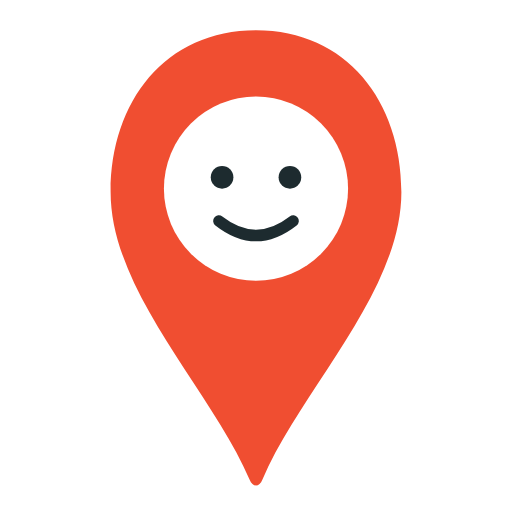
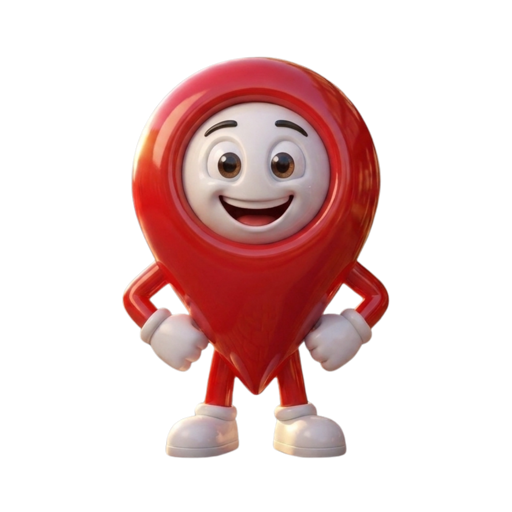
Use finished mascot artwork

diff --git a/index.html b/index.html
@@ -7,7 +7,7 @@
 <meta name="description" content="Done-for-you Google Maps marketing. We manage your Google Business Profile so more locals find you, click through, and call. Get your free visibility report in 24 hours.">
 <meta name="robots" content="index, follow, max-image-preview:large, max-snippet:-1, max-video-preview:-1">
 <link rel="canonical" href="https://www.boostyourmaps.com/">
-<link rel="icon" type="image/svg+xml" href="/assets/favicon.svg">
+<link rel="icon" type="image/png" href="/assets/icon-512.png">
 <meta property="og:type" content="website">
 <meta property="og:title" content="Google Maps Marketing Services | Boost Your Maps">
 <meta property="og:description" content="Done-for-you Google Maps marketing. We manage your Google Business Profile so more locals find you, click through, and call. Get your free visibility report in 24 hours.">
@@ -21,18 +21,13 @@
 <link href="https://fonts.googleapis.com/css2?family=Gabarito:wght@500;600;700;800&display=swap" rel="stylesheet">
 <link href="https://fonts.googleapis.com/css2?family=Hanken+Grotesk:wght@400;500;600;700&display=swap" rel="stylesheet">
 <link rel="stylesheet" href="/assets/styles.css">
-<script type="application/ld+json">{"@context": "https://schema.org", "@graph": [{"@type": "Organization", "@id": "https://www.boostyourmaps.com/#organization", "name": "Boost Your Maps", "legalName": "Impact Leads LLC", "url": "https://www.boostyourmaps.com/", "logo": "https://www.boostyourmaps.com/assets/icon-512.png", "email": "team@boostyourmaps.com", "address": {"@type": "PostalAddress", "streetAddress": "1021 E Lincolnway, Suite #5789", "addressLocality": "Cheyenne", "addressRegion": "WY", "postalCode": "82001", "addressCountry": "US"}}, {"@type": "WebSite", "@id": "https://www.boostyourmaps.com/#website", "url": "https://www.boostyourmaps.com/", "name": "Boost Your Maps", "publisher": {"@id": "https://www.boostyourmaps.com/#organization"}}, {"@type": "ProfessionalService", "@id": "https://www.boostyourmaps.com/#service", "name": "Boost Your Maps", "url": "https://www.boostyourmaps.com/", "description": "Done-for-you Google Business Profile management that gets local businesses more profile views, website visits, and calls from Google Maps.", "parentOrganization": {"@id": "https://www.boostyourmaps.com/#organization"}, "areaServed": ["United States", "Canada"], "priceRange": "$450-$1,750", "makesOffer": [{"@type": "Offer", "name": "Ongoing Google Business Profile management", "price": "450", "priceCurrency": "USD", "description": "Full profile rebuild plus monthly citations, posts, photos, rank tracking, and a plain-English report. Month to month."}, {"@type": "Offer", "name": "One-time Google Business Profile rebuild", "price": "1750", "priceCurrency": "USD", "description": "Complete one-time profile rebuild and optimization with 250 local citations and 20 posts."}]}, {"@type": "FAQPage", "mainEntity": [{"@type": "Question", "name": "I've paid for SEO before and saw nothing. How is this different?", "acceptedAnswer": {"@type": "Answer", "text": "We don't chase rankings across the whole web. We work one thing: where you show up on the map when someone nearby searches. It's a smaller, clearer job, and you see the numbers every month."}}, {"@type": "Question", "name": "How fast will I see results?", "acceptedAnswer": {"@type": "Answer", "text": "Most profiles start moving inside 60 to 90 days. If you need customers next week, Maps isn't the fix, and we'll tell you that before you pay us anything."}}, {"@type": "Question", "name": "Can you guarantee I'll be number one?", "acceptedAnswer": {"@type": "Answer", "text": "No. Anyone who guarantees a ranking isn't being straight with you, because Google decides that. We handle the work that earns visibility and show you the calls and clicks it brings."}}, {"@type": "Question", "name": "How much work is it for me?", "acceptedAnswer": {"@type": "Answer", "text": "Almost none. You add us as a manager on your profile and we run it. It stays your profile, in your name, and you can remove us in two clicks."}}, {"@type": "Question", "name": "What happens if I cancel?", "acceptedAnswer": {"@type": "Answer", "text": "You stop paying and keep everything. The profile, the citations, the posts, the photos: all of it stays with you."}}]}]}</script>
+<script type="application/ld+json">{"@context": "https://schema.org", "@graph": [{"@type": "Organization", "@id": "https://www.boostyourmaps.com/#organization", "name": "Boost Your Maps", "legalName": "Impact Leads LLC", "url": "https://www.boostyourmaps.com/", "logo": "https://www.boostyourmaps.com/assets/mascot.png", "email": "team@boostyourmaps.com", "address": {"@type": "PostalAddress", "streetAddress": "1021 E Lincolnway, Suite #5789", "addressLocality": "Cheyenne", "addressRegion": "WY", "postalCode": "82001", "addressCountry": "US"}}, {"@type": "WebSite", "@id": "https://www.boostyourmaps.com/#website", "url": "https://www.boostyourmaps.com/", "name": "Boost Your Maps", "publisher": {"@id": "https://www.boostyourmaps.com/#organization"}}, {"@type": "ProfessionalService", "@id": "https://www.boostyourmaps.com/#service", "name": "Boost Your Maps", "url": "https://www.boostyourmaps.com/", "description": "Done-for-you Google Business Profile management that gets local businesses more profile views, website visits, and calls from Google Maps.", "parentOrganization": {"@id": "https://www.boostyourmaps.com/#organization"}, "areaServed": ["United States", "Canada"], "priceRange": "$450-$1,750", "makesOffer": [{"@type": "Offer", "name": "Ongoing Google Business Profile management", "price": "450", "priceCurrency": "USD", "description": "Full profile rebuild plus monthly citations, posts, photos, rank tracking, and a plain-English report. Month to month."}, {"@type": "Offer", "name": "One-time Google Business Profile rebuild", "price": "1750", "priceCurrency": "USD", "description": "Complete one-time profile rebuild and optimization with 250 local citations and 20 posts."}]}, {"@type": "FAQPage", "mainEntity": [{"@type": "Question", "name": "I've paid for SEO before and saw nothing. How is this different?", "acceptedAnswer": {"@type": "Answer", "text": "We don't chase rankings across the whole web. We work one thing: where you show up on the map when someone nearby searches. It's a smaller, clearer job, and you see the numbers every month."}}, {"@type": "Question", "name": "How fast will I see results?", "acceptedAnswer": {"@type": "Answer", "text": "Most profiles start moving inside 60 to 90 days. If you need customers next week, Maps isn't the fix, and we'll tell you that before you pay us anything."}}, {"@type": "Question", "name": "Can you guarantee I'll be number one?", "acceptedAnswer": {"@type": "Answer", "text": "No. Anyone who guarantees a ranking isn't being straight with you, because Google decides that. We handle the work that earns visibility and show you the calls and clicks it brings."}}, {"@type": "Question", "name": "How much work is it for me?", "acceptedAnswer": {"@type": "Answer", "text": "Almost none. You add us as a manager on your profile and we run it. It stays your profile, in your name, and you can remove us in two clicks."}}, {"@type": "Question", "name": "What happens if I cancel?", "acceptedAnswer": {"@type": "Answer", "text": "You stop paying and keep everything. The profile, the citations, the posts, the photos: all of it stays with you."}}]}]}</script>
 </head>
 <body>
-<!-- ===== simple flat mascot ===== -->
+<!-- ===== brand mascot asset ===== -->
 <svg width="0" height="0" style="position:absolute" aria-hidden="true">
   <symbol id="mascot" viewBox="0 0 260 350">
-    <ellipse cx="130" cy="332" rx="58" ry="9" fill="#1C2A2E" opacity=".08"/>
-    <path d="M130 30 C74 30 40 74 40 130 C40 192 102 252 126 318 C128 323 132 323 134 318 C158 252 220 192 220 130 C220 74 186 30 130 30 Z" fill="currentColor"/>
-    <circle cx="130" cy="128" r="57" fill="var(--mascot-face,#FFFFFF)"/>
-    <circle cx="109" cy="121" r="7" fill="var(--mascot-ink,#1D2B2F)"/>
-    <circle cx="151" cy="121" r="7" fill="var(--mascot-ink,#1D2B2F)"/>
-    <path d="M107 148 Q130 166 153 148" stroke="var(--mascot-ink,#1D2B2F)" stroke-width="7" stroke-linecap="round" fill="none"/>
+    <image href="/assets/mascot.png" width="260" height="350" preserveAspectRatio="xMidYMid meet"/>
   </symbol>
 </svg>
 <nav>

diff --git a/services.html b/services.html
@@ -7,7 +7,7 @@
 <meta name="description" content="Google Business Profile optimization, review management, local citations, and plain-English performance tracking. Everything needed to rank in the Google Maps 3-Pack.">
 <meta name="robots" content="index, follow, max-image-preview:large, max-snippet:-1, max-video-preview:-1">
 <link rel="canonical" href="https://www.boostyourmaps.com/services">
-<link rel="icon" type="image/svg+xml" href="/assets/favicon.svg">
+<link rel="icon" type="image/png" href="/assets/icon-512.png">
 <meta property="og:type" content="website">
 <meta property="og:title" content="Google Maps Marketing Services | Profile Optimization, Reviews & Citations | Boost Your Maps">
 <meta property="og:description" content="Google Business Profile optimization, review management, local citations, and plain-English performance tracking. Everything needed to rank in the Google Maps 3-Pack.">
@@ -21,18 +21,13 @@
 <link href="https://fonts.googleapis.com/css2?family=Gabarito:wght@500;600;700;800&display=swap" rel="stylesheet">
 <link href="https://fonts.googleapis.com/css2?family=Hanken+Grotesk:wght@400;500;600;700&display=swap" rel="stylesheet">
 <link rel="stylesheet" href="/assets/styles.css">
-<script type="application/ld+json">{"@context": "https://schema.org", "@graph": [{"@type": "Organization", "@id": "https://www.boostyourmaps.com/#organization", "name": "Boost Your Maps", "legalName": "Impact Leads LLC", "url": "https://www.boostyourmaps.com/", "logo": "https://www.boostyourmaps.com/assets/icon-512.png", "email": "team@boostyourmaps.com", "address": {"@type": "PostalAddress", "streetAddress": "1021 E Lincolnway, Suite #5789", "addressLocality": "Cheyenne", "addressRegion": "WY", "postalCode": "82001", "addressCountry": "US"}}, {"@type": "WebSite", "@id": "https://www.boostyourmaps.com/#website", "url": "https://www.boostyourmaps.com/", "name": "Boost Your Maps", "publisher": {"@id": "https://www.boostyourmaps.com/#organization"}}, {"@type": "BreadcrumbList", "itemListElement": [{"@type": "ListItem", "position": 1, "name": "Home", "item": "https://www.boostyourmaps.com/"}, {"@type": "ListItem", "position": 2, "name": "Services", "item": "https://www.boostyourmaps.com/services"}]}, {"@type": "Service", "name": "Profile optimization", "serviceType": "Google Business Profile management", "provider": {"@id": "https://www.boostyourmaps.com/#organization"}, "areaServed": ["United States", "Canada"], "url": "https://www.boostyourmaps.com/services"}, {"@type": "Service", "name": "Review management", "serviceType": "Google Business Profile management", "provider": {"@id": "https://www.boostyourmaps.com/#organization"}, "areaServed": ["United States", "Canada"], "url": "https://www.boostyourmaps.com/services"}, {"@type": "Service", "name": "Local citations", "serviceType": "Google Business Profile management", "provider": {"@id": "https://www.boostyourmaps.com/#organization"}, "areaServed": ["United States", "Canada"], "url": "https://www.boostyourmaps.com/services"}, {"@type": "Service", "name": "Performance tracking", "serviceType": "Google Business Profile management", "provider": {"@id": "https://www.boostyourmaps.com/#organization"}, "areaServed": ["United States", "Canada"], "url": "https://www.boostyourmaps.com/services"}]}</script>
+<script type="application/ld+json">{"@context": "https://schema.org", "@graph": [{"@type": "Organization", "@id": "https://www.boostyourmaps.com/#organization", "name": "Boost Your Maps", "legalName": "Impact Leads LLC", "url": "https://www.boostyourmaps.com/", "logo": "https://www.boostyourmaps.com/assets/mascot.png", "email": "team@boostyourmaps.com", "address": {"@type": "PostalAddress", "streetAddress": "1021 E Lincolnway, Suite #5789", "addressLocality": "Cheyenne", "addressRegion": "WY", "postalCode": "82001", "addressCountry": "US"}}, {"@type": "WebSite", "@id": "https://www.boostyourmaps.com/#website", "url": "https://www.boostyourmaps.com/", "name": "Boost Your Maps", "publisher": {"@id": "https://www.boostyourmaps.com/#organization"}}, {"@type": "BreadcrumbList", "itemListElement": [{"@type": "ListItem", "position": 1, "name": "Home", "item": "https://www.boostyourmaps.com/"}, {"@type": "ListItem", "position": 2, "name": "Services", "item": "https://www.boostyourmaps.com/services"}]}, {"@type": "Service", "name": "Profile optimization", "serviceType": "Google Business Profile management", "provider": {"@id": "https://www.boostyourmaps.com/#organization"}, "areaServed": ["United States", "Canada"], "url": "https://www.boostyourmaps.com/services"}, {"@type": "Service", "name": "Review management", "serviceType": "Google Business Profile management", "provider": {"@id": "https://www.boostyourmaps.com/#organization"}, "areaServed": ["United States", "Canada"], "url": "https://www.boostyourmaps.com/services"}, {"@type": "Service", "name": "Local citations", "serviceType": "Google Business Profile management", "provider": {"@id": "https://www.boostyourmaps.com/#organization"}, "areaServed": ["United States", "Canada"], "url": "https://www.boostyourmaps.com/services"}, {"@type": "Service", "name": "Performance tracking", "serviceType": "Google Business Profile management", "provider": {"@id": "https://www.boostyourmaps.com/#organization"}, "areaServed": ["United States", "Canada"], "url": "https://www.boostyourmaps.com/services"}]}</script>
 </head>
 <body>
-<!-- ===== simple flat mascot ===== -->
+<!-- ===== brand mascot asset ===== -->
 <svg width="0" height="0" style="position:absolute" aria-hidden="true">
   <symbol id="mascot" viewBox="0 0 260 350">
-    <ellipse cx="130" cy="332" rx="58" ry="9" fill="#1C2A2E" opacity=".08"/>
-    <path d="M130 30 C74 30 40 74 40 130 C40 192 102 252 126 318 C128 323 132 323 134 318 C158 252 220 192 220 130 C220 74 186 30 130 30 Z" fill="currentColor"/>
-    <circle cx="130" cy="128" r="57" fill="var(--mascot-face,#FFFFFF)"/>
-    <circle cx="109" cy="121" r="7" fill="var(--mascot-ink,#1D2B2F)"/>
-    <circle cx="151" cy="121" r="7" fill="var(--mascot-ink,#1D2B2F)"/>
-    <path d="M107 148 Q130 166 153 148" stroke="var(--mascot-ink,#1D2B2F)" stroke-width="7" stroke-linecap="round" fill="none"/>
+    <image href="/assets/mascot.png" width="260" height="350" preserveAspectRatio="xMidYMid meet"/>
   </symbol>
 </svg>
 <nav>

diff --git a/about-us.html b/about-us.html
@@ -7,7 +7,7 @@
 <meta name="description" content="Boost Your Maps helps local businesses win the Google Maps 3-Pack with focused, done-for-you Google Business Profile management. One business per industry, per area.">
 <meta name="robots" content="index, follow, max-image-preview:large, max-snippet:-1, max-video-preview:-1">
 <link rel="canonical" href="https://www.boostyourmaps.com/about-us">
-<link rel="icon" type="image/svg+xml" href="/assets/favicon.svg">
+<link rel="icon" type="image/png" href="/assets/icon-512.png">
 <meta property="og:type" content="website">
 <meta property="og:title" content="About Us | Boost Your Maps">
 <meta property="og:description" content="Boost Your Maps helps local businesses win the Google Maps 3-Pack with focused, done-for-you Google Business Profile management. One business per industry, per area.">
@@ -21,18 +21,13 @@
 <link href="https://fonts.googleapis.com/css2?family=Gabarito:wght@500;600;700;800&display=swap" rel="stylesheet">
 <link href="https://fonts.googleapis.com/css2?family=Hanken+Grotesk:wght@400;500;600;700&display=swap" rel="stylesheet">
 <link rel="stylesheet" href="/assets/styles.css">
-<script type="application/ld+json">{"@context": "https://schema.org", "@graph": [{"@type": "Organization", "@id": "https://www.boostyourmaps.com/#organization", "name": "Boost Your Maps", "legalName": "Impact Leads LLC", "url": "https://www.boostyourmaps.com/", "logo": "https://www.boostyourmaps.com/assets/icon-512.png", "email": "team@boostyourmaps.com", "address": {"@type": "PostalAddress", "streetAddress": "1021 E Lincolnway, Suite #5789", "addressLocality": "Cheyenne", "addressRegion": "WY", "postalCode": "82001", "addressCountry": "US"}}, {"@type": "WebSite", "@id": "https://www.boostyourmaps.com/#website", "url": "https://www.boostyourmaps.com/", "name": "Boost Your Maps", "publisher": {"@id": "https://www.boostyourmaps.com/#organization"}}, {"@type": "BreadcrumbList", "itemListElement": [{"@type": "ListItem", "position": 1, "name": "Home", "item": "https://www.boostyourmaps.com/"}, {"@type": "ListItem", "position": 2, "name": "About Us", "item": "https://www.boostyourmaps.com/about-us"}]}, {"@type": "AboutPage", "@id": "https://www.boostyourmaps.com/about-us", "url": "https://www.boostyourmaps.com/about-us", "name": "About Boost Your Maps", "about": {"@id": "https://www.boostyourmaps.com/#organization"}}]}</script>
+<script type="application/ld+json">{"@context": "https://schema.org", "@graph": [{"@type": "Organization", "@id": "https://www.boostyourmaps.com/#organization", "name": "Boost Your Maps", "legalName": "Impact Leads LLC", "url": "https://www.boostyourmaps.com/", "logo": "https://www.boostyourmaps.com/assets/mascot.png", "email": "team@boostyourmaps.com", "address": {"@type": "PostalAddress", "streetAddress": "1021 E Lincolnway, Suite #5789", "addressLocality": "Cheyenne", "addressRegion": "WY", "postalCode": "82001", "addressCountry": "US"}}, {"@type": "WebSite", "@id": "https://www.boostyourmaps.com/#website", "url": "https://www.boostyourmaps.com/", "name": "Boost Your Maps", "publisher": {"@id": "https://www.boostyourmaps.com/#organization"}}, {"@type": "BreadcrumbList", "itemListElement": [{"@type": "ListItem", "position": 1, "name": "Home", "item": "https://www.boostyourmaps.com/"}, {"@type": "ListItem", "position": 2, "name": "About Us", "item": "https://www.boostyourmaps.com/about-us"}]}, {"@type": "AboutPage", "@id": "https://www.boostyourmaps.com/about-us", "url": "https://www.boostyourmaps.com/about-us", "name": "About Boost Your Maps", "about": {"@id": "https://www.boostyourmaps.com/#organization"}}]}</script>
 </head>
 <body>
-<!-- ===== simple flat mascot ===== -->
+<!-- ===== brand mascot asset ===== -->
 <svg width="0" height="0" style="position:absolute" aria-hidden="true">
   <symbol id="mascot" viewBox="0 0 260 350">
-    <ellipse cx="130" cy="332" rx="58" ry="9" fill="#1C2A2E" opacity=".08"/>
-    <path d="M130 30 C74 30 40 74 40 130 C40 192 102 252 126 318 C128 323 132 323 134 318 C158 252 220 192 220 130 C220 74 186 30 130 30 Z" fill="currentColor"/>
-    <circle cx="130" cy="128" r="57" fill="var(--mascot-face,#FFFFFF)"/>
-    <circle cx="109" cy="121" r="7" fill="var(--mascot-ink,#1D2B2F)"/>
-    <circle cx="151" cy="121" r="7" fill="var(--mascot-ink,#1D2B2F)"/>
-    <path d="M107 148 Q130 166 153 148" stroke="var(--mascot-ink,#1D2B2F)" stroke-width="7" stroke-linecap="round" fill="none"/>
+    <image href="/assets/mascot.png" width="260" height="350" preserveAspectRatio="xMidYMid meet"/>
   </symbol>
 </svg>
 <nav>

diff --git a/service-agreement.html b/service-agreement.html
@@ -7,7 +7,7 @@
 <meta name="description" content="The service agreement covering Boost Your Maps client engagements: services provided, term, payment, confidentiality, and governing law.">
 <meta name="robots" content="index, follow, max-image-preview:large, max-snippet:-1, max-video-preview:-1">
 <link rel="canonical" href="https://www.boostyourmaps.com/service-agreement">
-<link rel="icon" type="image/svg+xml" href="/assets/favicon.svg">
+<link rel="icon" type="image/png" href="/assets/icon-512.png">
 <meta property="og:type" content="website">
 <meta property="og:title" content="Service Agreement | Boost Your Maps">
 <meta property="og:description" content="The service agreement covering Boost Your Maps client engagements: services provided, term, payment, confidentiality, and governing law.">
@@ -21,18 +21,13 @@
 <link href="https://fonts.googleapis.com/css2?family=Gabarito:wght@500;600;700;800&display=swap" rel="stylesheet">
 <link href="https://fonts.googleapis.com/css2?family=Hanken+Grotesk:wght@400;500;600;700&display=swap" rel="stylesheet">
 <link rel="stylesheet" href="/assets/styles.css">
-<script type="application/ld+json">{"@context": "https://schema.org", "@graph": [{"@type": "Organization", "@id": "https://www.boostyourmaps.com/#organization", "name": "Boost Your Maps", "legalName": "Impact Leads LLC", "url": "https://www.boostyourmaps.com/", "logo": "https://www.boostyourmaps.com/assets/icon-512.png", "email": "team@boostyourmaps.com", "address": {"@type": "PostalAddress", "streetAddress": "1021 E Lincolnway, Suite #5789", "addressLocality": "Cheyenne", "addressRegion": "WY", "postalCode": "82001", "addressCountry": "US"}}, {"@type": "WebSite", "@id": "https://www.boostyourmaps.com/#website", "url": "https://www.boostyourmaps.com/", "name": "Boost Your Maps", "publisher": {"@id": "https://www.boostyourmaps.com/#organization"}}, {"@type": "BreadcrumbList", "itemListElement": [{"@type": "ListItem", "position": 1, "name": "Home", "item": "https://www.boostyourmaps.com/"}, {"@type": "ListItem", "position": 2, "name": "Service Agreement", "item": "https://www.boostyourmaps.com/service-agreement"}]}]}</script>
+<script type="application/ld+json">{"@context": "https://schema.org", "@graph": [{"@type": "Organization", "@id": "https://www.boostyourmaps.com/#organization", "name": "Boost Your Maps", "legalName": "Impact Leads LLC", "url": "https://www.boostyourmaps.com/", "logo": "https://www.boostyourmaps.com/assets/mascot.png", "email": "team@boostyourmaps.com", "address": {"@type": "PostalAddress", "streetAddress": "1021 E Lincolnway, Suite #5789", "addressLocality": "Cheyenne", "addressRegion": "WY", "postalCode": "82001", "addressCountry": "US"}}, {"@type": "WebSite", "@id": "https://www.boostyourmaps.com/#website", "url": "https://www.boostyourmaps.com/", "name": "Boost Your Maps", "publisher": {"@id": "https://www.boostyourmaps.com/#organization"}}, {"@type": "BreadcrumbList", "itemListElement": [{"@type": "ListItem", "position": 1, "name": "Home", "item": "https://www.boostyourmaps.com/"}, {"@type": "ListItem", "position": 2, "name": "Service Agreement", "item": "https://www.boostyourmaps.com/service-agreement"}]}]}</script>
 </head>
 <body>
-<!-- ===== simple flat mascot ===== -->
+<!-- ===== brand mascot asset ===== -->
 <svg width="0" height="0" style="position:absolute" aria-hidden="true">
   <symbol id="mascot" viewBox="0 0 260 350">
-    <ellipse cx="130" cy="332" rx="58" ry="9" fill="#1C2A2E" opacity=".08"/>
-    <path d="M130 30 C74 30 40 74 40 130 C40 192 102 252 126 318 C128 323 132 323 134 318 C158 252 220 192 220 130 C220 74 186 30 130 30 Z" fill="currentColor"/>
-    <circle cx="130" cy="128" r="57" fill="var(--mascot-face,#FFFFFF)"/>
-    <circle cx="109" cy="121" r="7" fill="var(--mascot-ink,#1D2B2F)"/>
-    <circle cx="151" cy="121" r="7" fill="var(--mascot-ink,#1D2B2F)"/>
-    <path d="M107 148 Q130 166 153 148" stroke="var(--mascot-ink,#1D2B2F)" stroke-width="7" stroke-linecap="round" fill="none"/>
+    <image href="/assets/mascot.png" width="260" height="350" preserveAspectRatio="xMidYMid meet"/>
   </symbol>
 </svg>
 <nav>

diff --git a/visibility-report.html b/visibility-report.html
@@ -7,7 +7,7 @@
 <meta name="description" content="See exactly where your business ranks on Google Maps, who holds the top three spots around you, and whether your area is still open. Free report within 24 hours.">
 <meta name="robots" content="index, follow, max-image-preview:large, max-snippet:-1, max-video-preview:-1">
 <link rel="canonical" href="https://www.boostyourmaps.com/visibility-report">
-<link rel="icon" type="image/svg+xml" href="/assets/favicon.svg">
+<link rel="icon" type="image/png" href="/assets/icon-512.png">
 <meta property="og:type" content="website">
 <meta property="og:title" content="Free Google Maps Visibility Report | Boost Your Maps">
 <meta property="og:description" content="See exactly where your business ranks on Google Maps, who holds the top three spots around you, and whether your area is still open. Free report within 24 hours.">
@@ -22,18 +22,13 @@
 <link href="https://fonts.googleapis.com/css2?family=Hanken+Grotesk:wght@400;500;600;700&display=swap" rel="stylesheet">
 <link rel="stylesheet" href="/assets/styles.css">
 <script src="/assets/forms.js" defer></script>
-<script type="application/ld+json">{"@context": "https://schema.org", "@graph": [{"@type": "Organization", "@id": "https://www.boostyourmaps.com/#organization", "name": "Boost Your Maps", "legalName": "Impact Leads LLC", "url": "https://www.boostyourmaps.com/", "logo": "https://www.boostyourmaps.com/assets/icon-512.png", "email": "team@boostyourmaps.com", "address": {"@type": "PostalAddress", "streetAddress": "1021 E Lincolnway, Suite #5789", "addressLocality": "Cheyenne", "addressRegion": "WY", "postalCode": "82001", "addressCountry": "US"}}, {"@type": "WebSite", "@id": "https://www.boostyourmaps.com/#website", "url": "https://www.boostyourmaps.com/", "name": "Boost Your Maps", "publisher": {"@id": "https://www.boostyourmaps.com/#organization"}}, {"@type": "BreadcrumbList", "itemListElement": [{"@type": "ListItem", "position": 1, "name": "Home", "item": "https://www.boostyourmaps.com/"}, {"@type": "ListItem", "position": 2, "name": "Visibility Report", "item": "https://www.boostyourmaps.com/visibility-report"}]}]}</script>
+<script type="application/ld+json">{"@context": "https://schema.org", "@graph": [{"@type": "Organization", "@id": "https://www.boostyourmaps.com/#organization", "name": "Boost Your Maps", "legalName": "Impact Leads LLC", "url": "https://www.boostyourmaps.com/", "logo": "https://www.boostyourmaps.com/assets/mascot.png", "email": "team@boostyourmaps.com", "address": {"@type": "PostalAddress", "streetAddress": "1021 E Lincolnway, Suite #5789", "addressLocality": "Cheyenne", "addressRegion": "WY", "postalCode": "82001", "addressCountry": "US"}}, {"@type": "WebSite", "@id": "https://www.boostyourmaps.com/#website", "url": "https://www.boostyourmaps.com/", "name": "Boost Your Maps", "publisher": {"@id": "https://www.boostyourmaps.com/#organization"}}, {"@type": "BreadcrumbList", "itemListElement": [{"@type": "ListItem", "position": 1, "name": "Home", "item": "https://www.boostyourmaps.com/"}, {"@type": "ListItem", "position": 2, "name": "Visibility Report", "item": "https://www.boostyourmaps.com/visibility-report"}]}]}</script>
 </head>
 <body>
-<!-- ===== simple flat mascot ===== -->
+<!-- ===== brand mascot asset ===== -->
 <svg width="0" height="0" style="position:absolute" aria-hidden="true">
   <symbol id="mascot" viewBox="0 0 260 350">
-    <ellipse cx="130" cy="332" rx="58" ry="9" fill="#1C2A2E" opacity=".08"/>
-    <path d="M130 30 C74 30 40 74 40 130 C40 192 102 252 126 318 C128 323 132 323 134 318 C158 252 220 192 220 130 C220 74 186 30 130 30 Z" fill="currentColor"/>
-    <circle cx="130" cy="128" r="57" fill="var(--mascot-face,#FFFFFF)"/>
-    <circle cx="109" cy="121" r="7" fill="var(--mascot-ink,#1D2B2F)"/>
-    <circle cx="151" cy="121" r="7" fill="var(--mascot-ink,#1D2B2F)"/>
-    <path d="M107 148 Q130 166 153 148" stroke="var(--mascot-ink,#1D2B2F)" stroke-width="7" stroke-linecap="round" fill="none"/>
+    <image href="/assets/mascot.png" width="260" height="350" preserveAspectRatio="xMidYMid meet"/>
   </symbol>
 </svg>
 <nav>

diff --git a/terms.html b/terms.html
@@ -7,7 +7,7 @@
 <meta name="description" content="The terms governing use of the Boost Your Maps website, operated by Impact Leads LLC, including intellectual property, disclaimers, and governing law.">
 <meta name="robots" content="index, follow, max-image-preview:large, max-snippet:-1, max-video-preview:-1">
 <link rel="canonical" href="https://www.boostyourmaps.com/terms">
-<link rel="icon" type="image/svg+xml" href="/assets/favicon.svg">
+<link rel="icon" type="image/png" href="/assets/icon-512.png">
 <meta property="og:type" content="website">
 <meta property="og:title" content="Terms & Conditions | Boost Your Maps">
 <meta property="og:description" content="The terms governing use of the Boost Your Maps website, operated by Impact Leads LLC, including intellectual property, disclaimers, and governing law.">
@@ -21,18 +21,13 @@
 <link href="https://fonts.googleapis.com/css2?family=Gabarito:wght@500;600;700;800&display=swap" rel="stylesheet">
 <link href="https://fonts.googleapis.com/css2?family=Hanken+Grotesk:wght@400;500;600;700&display=swap" rel="stylesheet">
 <link rel="stylesheet" href="/assets/styles.css">
-<script type="application/ld+json">{"@context": "https://schema.org", "@graph": [{"@type": "Organization", "@id": "https://www.boostyourmaps.com/#organization", "name": "Boost Your Maps", "legalName": "Impact Leads LLC", "url": "https://www.boostyourmaps.com/", "logo": "https://www.boostyourmaps.com/assets/icon-512.png", "email": "team@boostyourmaps.com", "address": {"@type": "PostalAddress", "streetAddress": "1021 E Lincolnway, Suite #5789", "addressLocality": "Cheyenne", "addressRegion": "WY", "postalCode": "82001", "addressCountry": "US"}}, {"@type": "WebSite", "@id": "https://www.boostyourmaps.com/#website", "url": "https://www.boostyourmaps.com/", "name": "Boost Your Maps", "publisher": {"@id": "https://www.boostyourmaps.com/#organization"}}, {"@type": "BreadcrumbList", "itemListElement": [{"@type": "ListItem", "position": 1, "name": "Home", "item": "https://www.boostyourmaps.com/"}, {"@type": "ListItem", "position": 2, "name": "Terms & Conditions", "item": "https://www.boostyourmaps.com/terms"}]}]}</script>
+<script type="application/ld+json">{"@context": "https://schema.org", "@graph": [{"@type": "Organization", "@id": "https://www.boostyourmaps.com/#organization", "name": "Boost Your Maps", "legalName": "Impact Leads LLC", "url": "https://www.boostyourmaps.com/", "logo": "https://www.boostyourmaps.com/assets/mascot.png", "email": "team@boostyourmaps.com", "address": {"@type": "PostalAddress", "streetAddress": "1021 E Lincolnway, Suite #5789", "addressLocality": "Cheyenne", "addressRegion": "WY", "postalCode": "82001", "addressCountry": "US"}}, {"@type": "WebSite", "@id": "https://www.boostyourmaps.com/#website", "url": "https://www.boostyourmaps.com/", "name": "Boost Your Maps", "publisher": {"@id": "https://www.boostyourmaps.com/#organization"}}, {"@type": "BreadcrumbList", "itemListElement": [{"@type": "ListItem", "position": 1, "name": "Home", "item": "https://www.boostyourmaps.com/"}, {"@type": "ListItem", "position": 2, "name": "Terms & Conditions", "item": "https://www.boostyourmaps.com/terms"}]}]}</script>
 </head>
 <body>
-<!-- ===== simple flat mascot ===== -->
+<!-- ===== brand mascot asset ===== -->
 <svg width="0" height="0" style="position:absolute" aria-hidden="true">
   <symbol id="mascot" viewBox="0 0 260 350">
-    <ellipse cx="130" cy="332" rx="58" ry="9" fill="#1C2A2E" opacity=".08"/>
-    <path d="M130 30 C74 30 40 74 40 130 C40 192 102 252 126 318 C128 323 132 323 134 318 C158 252 220 192 220 130 C220 74 186 30 130 30 Z" fill="currentColor"/>
-    <circle cx="130" cy="128" r="57" fill="var(--mascot-face,#FFFFFF)"/>
-    <circle cx="109" cy="121" r="7" fill="var(--mascot-ink,#1D2B2F)"/>
-    <circle cx="151" cy="121" r="7" fill="var(--mascot-ink,#1D2B2F)"/>
-    <path d="M107 148 Q130 166 153 148" stroke="var(--mascot-ink,#1D2B2F)" stroke-width="7" stroke-linecap="round" fill="none"/>
+    <image href="/assets/mascot.png" width="260" height="350" preserveAspectRatio="xMidYMid meet"/>
   </symbol>
 </svg>
 <nav>

diff --git a/privacy.html b/privacy.html
@@ -7,7 +7,7 @@
 <meta name="description" content="How Boost Your Maps (Impact Leads LLC) collects, uses, and protects your personal information, and the rights you have over your data.">
 <meta name="robots" content="index, follow, max-image-preview:large, max-snippet:-1, max-video-preview:-1">
 <link rel="canonical" href="https://www.boostyourmaps.com/privacy">
-<link rel="icon" type="image/svg+xml" href="/assets/favicon.svg">
+<link rel="icon" type="image/png" href="/assets/icon-512.png">
 <meta property="og:type" content="website">
 <meta property="og:title" content="Privacy Policy | Boost Your Maps">
 <meta property="og:description" content="How Boost Your Maps (Impact Leads LLC) collects, uses, and protects your personal information, and the rights you have over your data.">
@@ -21,18 +21,13 @@
 <link href="https://fonts.googleapis.com/css2?family=Gabarito:wght@500;600;700;800&display=swap" rel="stylesheet">
 <link href="https://fonts.googleapis.com/css2?family=Hanken+Grotesk:wght@400;500;600;700&display=swap" rel="stylesheet">
 <link rel="stylesheet" href="/assets/styles.css">
-<script type="application/ld+json">{"@context": "https://schema.org", "@graph": [{"@type": "Organization", "@id": "https://www.boostyourmaps.com/#organization", "name": "Boost Your Maps", "legalName": "Impact Leads LLC", "url": "https://www.boostyourmaps.com/", "logo": "https://www.boostyourmaps.com/assets/icon-512.png", "email": "team@boostyourmaps.com", "address": {"@type": "PostalAddress", "streetAddress": "1021 E Lincolnway, Suite #5789", "addressLocality": "Cheyenne", "addressRegion": "WY", "postalCode": "82001", "addressCountry": "US"}}, {"@type": "WebSite", "@id": "https://www.boostyourmaps.com/#website", "url": "https://www.boostyourmaps.com/", "name": "Boost Your Maps", "publisher": {"@id": "https://www.boostyourmaps.com/#organization"}}, {"@type": "BreadcrumbList", "itemListElement": [{"@type": "ListItem", "position": 1, "name": "Home", "item": "https://www.boostyourmaps.com/"}, {"@type": "ListItem", "position": 2, "name": "Privacy Policy", "item": "https://www.boostyourmaps.com/privacy"}]}]}</script>
+<script type="application/ld+json">{"@context": "https://schema.org", "@graph": [{"@type": "Organization", "@id": "https://www.boostyourmaps.com/#organization", "name": "Boost Your Maps", "legalName": "Impact Leads LLC", "url": "https://www.boostyourmaps.com/", "logo": "https://www.boostyourmaps.com/assets/mascot.png", "email": "team@boostyourmaps.com", "address": {"@type": "PostalAddress", "streetAddress": "1021 E Lincolnway, Suite #5789", "addressLocality": "Cheyenne", "addressRegion": "WY", "postalCode": "82001", "addressCountry": "US"}}, {"@type": "WebSite", "@id": "https://www.boostyourmaps.com/#website", "url": "https://www.boostyourmaps.com/", "name": "Boost Your Maps", "publisher": {"@id": "https://www.boostyourmaps.com/#organization"}}, {"@type": "BreadcrumbList", "itemListElement": [{"@type": "ListItem", "position": 1, "name": "Home", "item": "https://www.boostyourmaps.com/"}, {"@type": "ListItem", "position": 2, "name": "Privacy Policy", "item": "https://www.boostyourmaps.com/privacy"}]}]}</script>
 </head>
 <body>
-<!-- ===== simple flat mascot ===== -->
+<!-- ===== brand mascot asset ===== -->
 <svg width="0" height="0" style="position:absolute" aria-hidden="true">
   <symbol id="mascot" viewBox="0 0 260 350">
-    <ellipse cx="130" cy="332" rx="58" ry="9" fill="#1C2A2E" opacity=".08"/>
-    <path d="M130 30 C74 30 40 74 40 130 C40 192 102 252 126 318 C128 323 132 323 134 318 C158 252 220 192 220 130 C220 74 186 30 130 30 Z" fill="currentColor"/>
-    <circle cx="130" cy="128" r="57" fill="var(--mascot-face,#FFFFFF)"/>
-    <circle cx="109" cy="121" r="7" fill="var(--mascot-ink,#1D2B2F)"/>
-    <circle cx="151" cy="121" r="7" fill="var(--mascot-ink,#1D2B2F)"/>
-    <path d="M107 148 Q130 166 153 148" stroke="var(--mascot-ink,#1D2B2F)" stroke-width="7" stroke-linecap="round" fill="none"/>
+    <image href="/assets/mascot.png" width="260" height="350" preserveAspectRatio="xMidYMid meet"/>
   </symbol>
 </svg>
 <nav>

diff --git a/inquiry-form.html b/inquiry-form.html
@@ -7,7 +7,7 @@
 <meta name="description" content="Get in touch with Boost Your Maps about done-for-you Google Maps marketing, the one-time profile rebuild, or anything else. We reply within one business day.">
 <meta name="robots" content="index, follow, max-image-preview:large, max-snippet:-1, max-video-preview:-1">
 <link rel="canonical" href="https://www.boostyourmaps.com/inquiry-form">
-<link rel="icon" type="image/svg+xml" href="/assets/favicon.svg">
+<link rel="icon" type="image/png" href="/assets/icon-512.png">
 <meta property="og:type" content="website">
 <meta property="og:title" content="Contact Us | Boost Your Maps">
 <meta property="og:description" content="Get in touch with Boost Your Maps about done-for-you Google Maps marketing, the one-time profile rebuild, or anything else. We reply within one business day.">
@@ -22,18 +22,13 @@
 <link href="https://fonts.googleapis.com/css2?family=Hanken+Grotesk:wght@400;500;600;700&display=swap" rel="stylesheet">
 <link rel="stylesheet" href="/assets/styles.css">
 <script src="/assets/forms.js" defer></script>
-<script type="application/ld+json">{"@context": "https://schema.org", "@graph": [{"@type": "Organization", "@id": "https://www.boostyourmaps.com/#organization", "name": "Boost Your Maps", "legalName": "Impact Leads LLC", "url": "https://www.boostyourmaps.com/", "logo": "https://www.boostyourmaps.com/assets/icon-512.png", "email": "team@boostyourmaps.com", "address": {"@type": "PostalAddress", "streetAddress": "1021 E Lincolnway, Suite #5789", "addressLocality": "Cheyenne", "addressRegion": "WY", "postalCode": "82001", "addressCountry": "US"}}, {"@type": "WebSite", "@id": "https://www.boostyourmaps.com/#website", "url": "https://www.boostyourmaps.com/", "name": "Boost Your Maps", "publisher": {"@id": "https://www.boostyourmaps.com/#organization"}}, {"@type": "BreadcrumbList", "itemListElement": [{"@type": "ListItem", "position": 1, "name": "Home", "item": "https://www.boostyourmaps.com/"}, {"@type": "ListItem", "position": 2, "name": "Contact", "item": "https://www.boostyourmaps.com/inquiry-form"}]}]}</script>
+<script type="application/ld+json">{"@context": "https://schema.org", "@graph": [{"@type": "Organization", "@id": "https://www.boostyourmaps.com/#organization", "name": "Boost Your Maps", "legalName": "Impact Leads LLC", "url": "https://www.boostyourmaps.com/", "logo": "https://www.boostyourmaps.com/assets/mascot.png", "email": "team@boostyourmaps.com", "address": {"@type": "PostalAddress", "streetAddress": "1021 E Lincolnway, Suite #5789", "addressLocality": "Cheyenne", "addressRegion": "WY", "postalCode": "82001", "addressCountry": "US"}}, {"@type": "WebSite", "@id": "https://www.boostyourmaps.com/#website", "url": "https://www.boostyourmaps.com/", "name": "Boost Your Maps", "publisher": {"@id": "https://www.boostyourmaps.com/#organization"}}, {"@type": "BreadcrumbList", "itemListElement": [{"@type": "ListItem", "position": 1, "name": "Home", "item": "https://www.boostyourmaps.com/"}, {"@type": "ListItem", "position": 2, "name": "Contact", "item": "https://www.boostyourmaps.com/inquiry-form"}]}]}</script>
 </head>
 <body>
-<!-- ===== simple flat mascot ===== -->
+<!-- ===== brand mascot asset ===== -->
 <svg width="0" height="0" style="position:absolute" aria-hidden="true">
   <symbol id="mascot" viewBox="0 0 260 350">
-    <ellipse cx="130" cy="332" rx="58" ry="9" fill="#1C2A2E" opacity=".08"/>
-    <path d="M130 30 C74 30 40 74 40 130 C40 192 102 252 126 318 C128 323 132 323 134 318 C158 252 220 192 220 130 C220 74 186 30 130 30 Z" fill="currentColor"/>
-    <circle cx="130" cy="128" r="57" fill="var(--mascot-face,#FFFFFF)"/>
-    <circle cx="109" cy="121" r="7" fill="var(--mascot-ink,#1D2B2F)"/>
-    <circle cx="151" cy="121" r="7" fill="var(--mascot-ink,#1D2B2F)"/>
-    <path d="M107 148 Q130 166 153 148" stroke="var(--mascot-ink,#1D2B2F)" stroke-width="7" stroke-linecap="round" fill="none"/>
+    <image href="/assets/mascot.png" width="260" height="350" preserveAspectRatio="xMidYMid meet"/>
   </symbol>
 </svg>
 <nav>

diff --git a/404.html b/404.html
@@ -7,7 +7,7 @@
 <meta name="description" content="That page doesn't exist. Head back to the Boost Your Maps homepage or grab your free visibility report.">
 <meta name="robots" content="noindex, nofollow">
 <link rel="canonical" href="https://www.boostyourmaps.com/404">
-<link rel="icon" type="image/svg+xml" href="/assets/favicon.svg">
+<link rel="icon" type="image/png" href="/assets/icon-512.png">
 <meta property="og:type" content="website">
 <meta property="og:title" content="Page Not Found | Boost Your Maps">
 <meta property="og:description" content="That page doesn't exist. Head back to the Boost Your Maps homepage or grab your free visibility report.">
@@ -21,18 +21,13 @@
 <link href="https://fonts.googleapis.com/css2?family=Gabarito:wght@500;600;700;800&display=swap" rel="stylesheet">
 <link href="https://fonts.googleapis.com/css2?family=Hanken+Grotesk:wght@400;500;600;700&display=swap" rel="stylesheet">
 <link rel="stylesheet" href="/assets/styles.css">
-<script type="application/ld+json">{"@context": "https://schema.org", "@graph": [{"@type": "Organization", "@id": "https://www.boostyourmaps.com/#organization", "name": "Boost Your Maps", "legalName": "Impact Leads LLC", "url": "https://www.boostyourmaps.com/", "logo": "https://www.boostyourmaps.com/assets/icon-512.png", "email": "team@boostyourmaps.com", "address": {"@type": "PostalAddress", "streetAddress": "1021 E Lincolnway, Suite #5789", "addressLocality": "Cheyenne", "addressRegion": "WY", "postalCode": "82001", "addressCountry": "US"}}, {"@type": "WebSite", "@id": "https://www.boostyourmaps.com/#website", "url": "https://www.boostyourmaps.com/", "name": "Boost Your Maps", "publisher": {"@id": "https://www.boostyourmaps.com/#organization"}}]}</script>
+<script type="application/ld+json">{"@context": "https://schema.org", "@graph": [{"@type": "Organization", "@id": "https://www.boostyourmaps.com/#organization", "name": "Boost Your Maps", "legalName": "Impact Leads LLC", "url": "https://www.boostyourmaps.com/", "logo": "https://www.boostyourmaps.com/assets/mascot.png", "email": "team@boostyourmaps.com", "address": {"@type": "PostalAddress", "streetAddress": "1021 E Lincolnway, Suite #5789", "addressLocality": "Cheyenne", "addressRegion": "WY", "postalCode": "82001", "addressCountry": "US"}}, {"@type": "WebSite", "@id": "https://www.boostyourmaps.com/#website", "url": "https://www.boostyourmaps.com/", "name": "Boost Your Maps", "publisher": {"@id": "https://www.boostyourmaps.com/#organization"}}]}</script>
 </head>
 <body>
-<!-- ===== simple flat mascot ===== -->
+<!-- ===== brand mascot asset ===== -->
 <svg width="0" height="0" style="position:absolute" aria-hidden="true">
   <symbol id="mascot" viewBox="0 0 260 350">
-    <ellipse cx="130" cy="332" rx="58" ry="9" fill="#1C2A2E" opacity=".08"/>
-    <path d="M130 30 C74 30 40 74 40 130 C40 192 102 252 126 318 C128 323 132 323 134 318 C158 252 220 192 220 130 C220 74 186 30 130 30 Z" fill="currentColor"/>
-    <circle cx="130" cy="128" r="57" fill="var(--mascot-face,#FFFFFF)"/>
-    <circle cx="109" cy="121" r="7" fill="var(--mascot-ink,#1D2B2F)"/>
-    <circle cx="151" cy="121" r="7" fill="var(--mascot-ink,#1D2B2F)"/>
-    <path d="M107 148 Q130 166 153 148" stroke="var(--mascot-ink,#1D2B2F)" stroke-width="7" stroke-linecap="round" fill="none"/>
+    <image href="/assets/mascot.png" width="260" height="350" preserveAspectRatio="xMidYMid meet"/>
   </symbol>
 </svg>
 <nav>

diff --git a/templates/service-page-template.html b/templates/service-page-template.html
@@ -22,7 +22,7 @@
 <meta name="description" content="{{150-160 char description naming the service, the city, and the outcome — written as ad copy}}">
 <meta name="robots" content="index, follow, max-image-preview:large, max-snippet:-1, max-video-preview:-1">
 <link rel="canonical" href="https://www.boostyourmaps.com/{{URL-SLUG}}">
-<link rel="icon" type="image/svg+xml" href="/assets/favicon.svg">
+<link rel="icon" type="image/png" href="/assets/icon-512.png">
 <link rel="preconnect" href="https://fonts.googleapis.com">
 <link rel="preconnect" href="https://fonts.gstatic.com" crossorigin>
 <link href="https://fonts.googleapis.com/css2?family=Gabarito:wght@500;600;700;800&display=swap" rel="stylesheet">

diff --git a/templates/blog-post-template.html b/templates/blog-post-template.html
@@ -20,7 +20,7 @@
 <meta name="description" content="{{150-160 chars selling the answer}}">
 <meta name="robots" content="index, follow, max-image-preview:large, max-snippet:-1, max-video-preview:-1">
 <link rel="canonical" href="https://www.boostyourmaps.com/blog/{{SLUG}}">
-<link rel="icon" type="image/svg+xml" href="/assets/favicon.svg">
+<link rel="icon" type="image/png" href="/assets/icon-512.png">
 <link rel="preconnect" href="https://fonts.googleapis.com">
 <link rel="preconnect" href="https://fonts.gstatic.com" crossorigin>
 <link href="https://fonts.googleapis.com/css2?family=Gabarito:wght@500;600;700;800&display=swap" rel="stylesheet">
